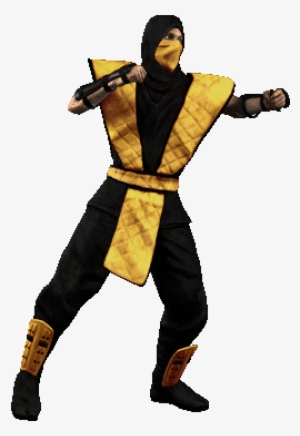
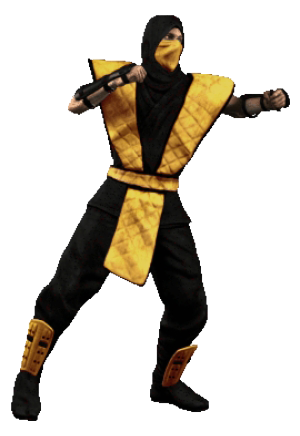
Wrote the CSS to the character's website and changed some HTML

diff --git a/index.html b/index.html
@@ -1,22 +1,36 @@
 <!DOCTYPE html>
 <html>
 <head>
+    
     <title>Scorpion</title>
     <link rel="icon" href="img/scorpion_avatar.jpg">
+    <link href="https://fonts.googleapis.com/css2?family=Press+Start+2P&display=swap" rel="stylesheet">
+    <link rel="stylesheet" type="text/css" href="css/hero.css">
+    
 </head>
 <body>
     <!-- header element -->
     <header>
-        <img src="img/scorpion_avatar.jpg">
+
+        <img style="border: black;" src="img/skull column left.jpg">
+
+        <img style="margin: 15px 125px; width: 350px; height: 411px;" src="img/scorpion_avatar.jpg">
+
+        <img style="border: black;" src="img/skull column right.jpg">
+
+
         <h1>SCORPION</h1>
+
+       
+
     </header>
 
     <!-- main element -->
     <main>
         <h2>About Scorpion</h2>
         <p>Scorpion is awesome! He is actually an accursed undead specter seeking revenge in the Mortal Kombat tournament. He is a ninja warrior who was killed by his arch-nemesis Sub-Zero (a blue color-swap version of him) survived by a wife and child, and was allowed to return to the physical realms in order to have his revenge. The curse of Scorpion's supernatural existence means he can have his vengeance but can't reunite with his still-living family. Ultimately after the tournament is won by the human champion Liu Kang, Scorpion kills Sub-Zero.</p>
-        <img src="img/MK3_Scorpion_3.png">
-        <p>Say hello to the Yellow Fellow!</p>
+        <img src="img/MK3_Scorpion_3.png" style="background: transparent; width: 150%; height: 150%;">
+        <p class="caption">Say hello to the Yellow Fellow!</p>
         
         
     <!-- Palette swap -->
@@ -56,5 +70,8 @@
     <footer>
         <p>This site was created during a <a target="_blank" href="https://www.taptapkaboom.com/">TTKB</a> class. &copy; PootKel</p>
     </footer>
+
+
+
 </body>
 </html>

diff --git a/css/hero.css b/css/hero.css
@@ -1,0 +1,69 @@
+body{
+    background: rgb(2,0,36);
+    background: linear-gradient(180deg, rgba(2,0,36,1) 0%, rgb(121, 9, 9) 35%, rgb(255, 166, 0) 100%);
+    font-family:  Helvetica, sans-serif, cursive;
+    margin: 0px;
+    font-size: 22px;
+    line-height: 35px;
+}
+
+header{
+    background: black;
+    text-align: center;
+    height: 526px;
+
+}
+
+h1, h2{
+    font-family: 'Press Start 2P', cursive;
+}
+
+header h1{
+    color: #c3b488;
+    font-size: 57px;
+    letter-spacing: 44px;
+    margin: 15px;
+}
+
+header img{
+    border-radius: 0px;
+    border: 3px solid #c3b488; 
+    text-align: center;
+}
+
+main{
+    max-width: 950px;
+    margin: 0 auto;
+    padding: 20px;
+}
+
+main img{
+    max-width: 100%;
+    }
+
+h2{
+    font-size: 23px;
+    margin: 40px 0 10px;
+}
+
+a{
+    color: rgb(219, 0, 0)
+}
+a:hover{
+    color: rgb(255, 166, 0);
+    background: black;
+}
+
+footer{
+    background: black;
+    color: #c3b488;
+    text-align: center;
+    padding: 50px;
+}
+
+p.caption{
+    color: #d17131;
+    font-style: italic;
+
+}
+

diff --git a/grad-test.html b/grad-test.html
@@ -1,0 +1,21 @@
+<!DOCTYPE html>
+<html>
+<head>
+<style>
+#grad1 {
+  height: 2000px;
+  background-color: red; /* For browsers that do not support gradients */
+  background-image: linear-gradient(darkred, darkgoldenrod);
+}
+</style>
+</head>
+<body>
+
+<h1>Linear Gradient - Top to Bottom</h1>
+<p>This linear gradient starts red at the top, transitioning to yellow at the bottom:</p>
+
+<div id="grad1"></div>
+
+</body>
+</html>
+
